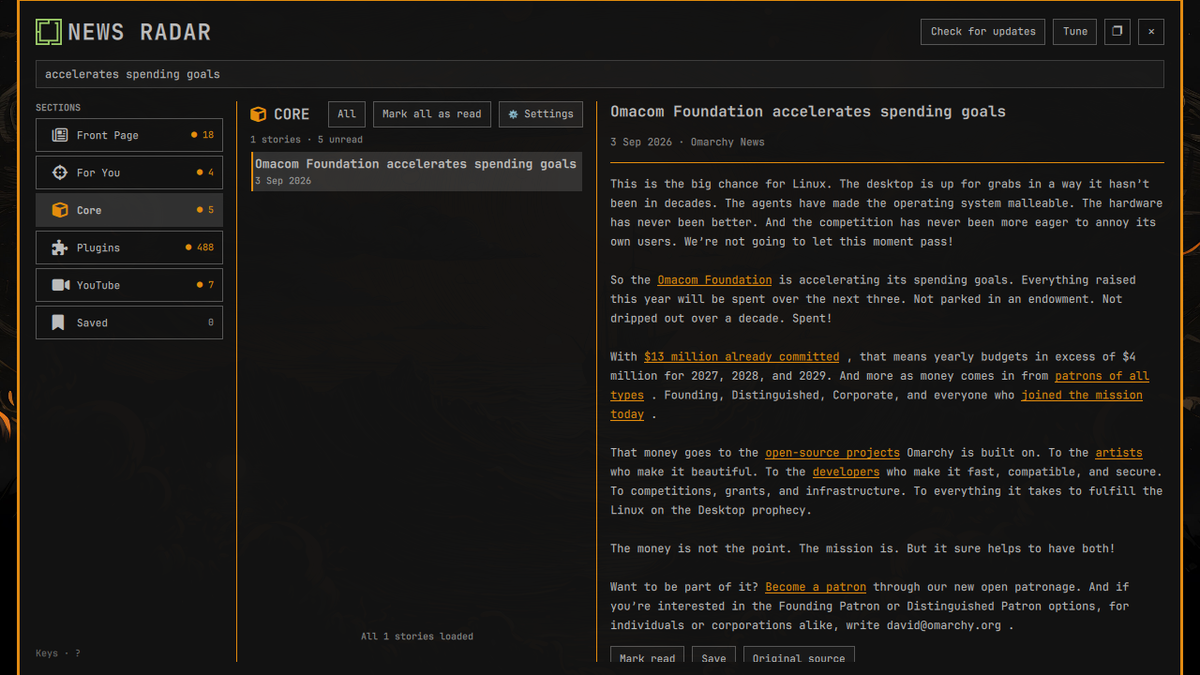
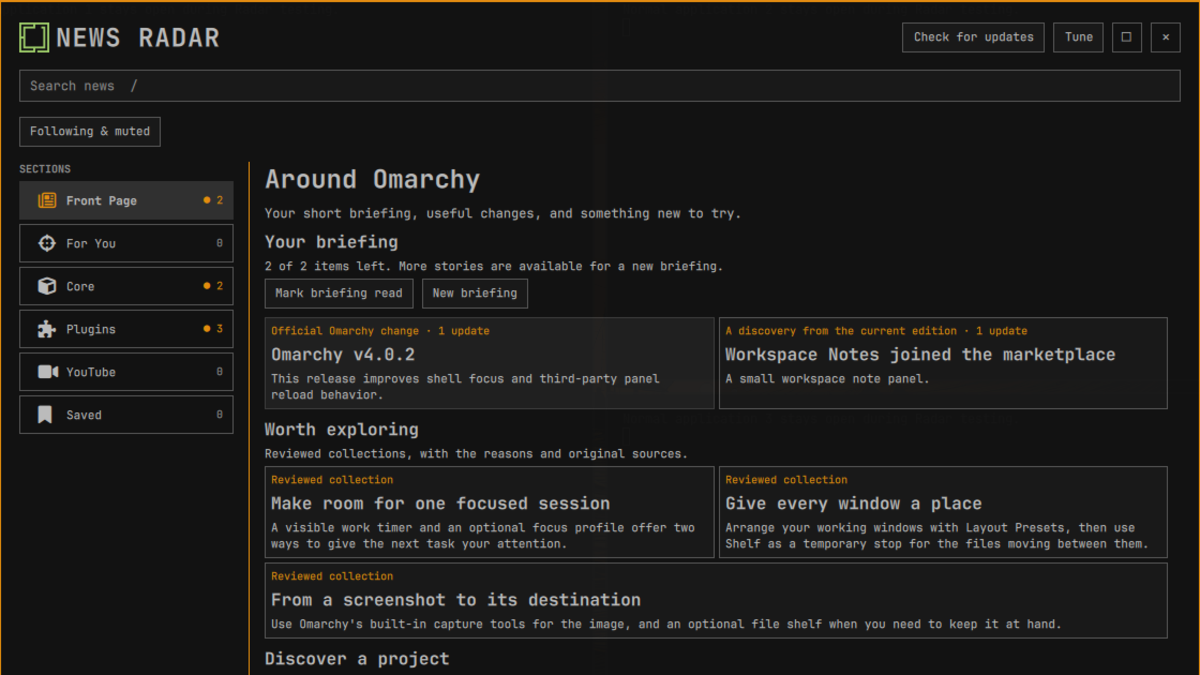
Prepare News Radar 0.5 release

Changed region(s): [[0.0, 0.0, 1.0, 1.0]]

diff --git a/README.md b/README.md
@@ -1,20 +1,20 @@
-![Omarchy News Radar — press one key and catch up with what changed](assets/readme-banner.svg)
+![Omarchy News Radar 0.5 — your personal front page for Omarchy](assets/readme-banner.svg)
 
 # Omarchy News Radar
 
-> Press one key. Catch up with what changed across Omarchy.
+> Your personal front page for Omarchy.
 
-Catch up on Omarchy releases, official news, plugin activity and videos in one keyboard-first desktop reader. Find stories about your enabled plugins in **For You**, save useful discoveries and keep reading from your cache when offline. Your reading state and plugin matching stay on your device.
+Catch up on Omarchy releases, official news, plugin activity and videos in one keyboard-first desktop reader. Start with a finite briefing, understand changes that affect your setup, explore reviewed workflows, and discover useful projects. Your reading state, enabled-plugin matching, follows, and mutes stay on your device.
 
 [Install from the marketplace](https://plugins.omarchy.org/plugin.html?id=io.github.mtolhuys.news-radar) · [Read the web edition](https://mtolhuijs.nl/news-radar/) · [Follow via RSS](https://mtolhuijs.nl/news-radar/feed.xml)
 
 Omarchy News Radar is an independent community project.
 
-![Omarchy News Radar in use — official news, plugin activity, section filters, and dark/light themes](preview.gif)
+![Omarchy News Radar 0.5 in use — Front Page, reviewed workflows, My setup, and project details](preview.gif)
 
-The walkthrough shows the released reader. This checkout also contains the local 0.5.0 candidate described under [Project status](#project-status).
+The walkthrough uses the released 0.5 reader and its real public edition.
 
-## Install the published v0.4.16
+## Install the published v0.5.0
 
 Open the [marketplace listing](https://plugins.omarchy.org/plugin.html?id=io.github.mtolhuys.news-radar) for its reviewed snapshot and installation instructions. To install the current public version directly from the repository's default branch:
 
@@ -62,7 +62,7 @@ o.bind("SUPER + SHIFT + R", "Omarchy News Radar", "omarchy-shell shell summon io
 
 ## Panel controls
 
-These controls describe the local 0.5.0 candidate. On first use, **Browse current stories** keeps the backlog unread; **Start from today** marks the displayed edition read and keeps those stories available to browse. Both preserve saved stories and local preferences. Existing readers keep their reading state and skip this welcome choice when upgrading.
+On first use, **Browse current stories** keeps the backlog unread; **Start from today** marks the displayed edition read and keeps those stories available to browse. Both preserve saved stories and local preferences. Existing readers keep their reading state and skip this welcome choice when upgrading.
 
 **Front Page** brings together your retained brief, reviewed workflows, documented changes for your setup and a few projects to discover. Opening this overview does not mark a hidden story read. Choose a briefing card to enter its reader. The brief holds up to five story groups, selected from unread source facts and your local filters. It favors critical or reviewed notable news, official Omarchy changes, enabled-plugin activity, and a discovery when available. Updates for the same plugin share a group with each original source accessible under **Show updates**. Routine verification changes do not consume a briefing slot on their own, and popularity metrics never choose the stories.
 
@@ -142,9 +142,7 @@ If the plugin is removed before its shortcut, the marked block is a harmless unr
 
 ## Project status
 
-Version `0.4.16` is the current release. The [marketplace listing](https://plugins.omarchy.org/plugin.html?id=io.github.mtolhuys.news-radar) provides the published snapshot. Marketplace verification is compatibility evidence, not a security audit.
-
-Version `0.5.0` is a local candidate, not a published release. Home combines a persistent five-group briefing, documented changes for your setup, reviewed workflow ideas and project discoveries. Local follows and mutes tune future news; the window prepares its placement before opening. The companion public edition adds shareable story and workflow pages, with bounded gzip delivery and durable URL retention in the separate feed server. See the [candidate release notes](docs/release-notes/0.5.0.md) and [release checklist](docs/RELEASE.md). Its runtime identity is 0.5.0; public installation above still installs the published version. Candidate publication and exact-candidate release evidence remain separate steps.
+Version `0.5.0` is the current release. Home combines a persistent five-group briefing, documented changes for your setup, reviewed workflow ideas and project discoveries. Local follows and mutes tune future news; the window prepares its placement before opening. The companion public edition adds shareable story and workflow pages, with bounded gzip delivery and durable URL retention in the feed server. See the [release notes](docs/release-notes/0.5.0.md), [verification evidence](docs/evidence/0.5.0-expanded-local.md), and [release contract](docs/RELEASE.md). The marketplace listing can remain on its previous reviewed snapshot while the 0.5 verification request is processed; marketplace verification is compatibility evidence, not a security audit.
 
 The main plugin declares `panel` and `bar-widget`. Its newspaper is visible by default, shows unread/source status, and is optional: right-click hides it with zero remaining bar geometry, while Tune in the panel restores it. Version 1 still has no daemon, desktop notification, telemetry, account, analytics, AI summary, or plugin-management action.
 
@@ -198,7 +196,7 @@ make local-latest
 
 The first run validates, clones, and enables the current committed checkout, installs Radar's managed Apps-menu entry, then collects a real edition from the live allowlisted Omarchy release and marketplace sources. It validates eligible marketplace images and atomically imports the edition and matching private source baseline; current images remain on the exact allowlisted marketplace/YouTube origins. Later runs fast-forward the installed clone, safely update the launcher entry, rescan the plugin, and advance that validated private baseline so an older change cannot be rediscovered as new. **Check for updates** still checks the live feed at `https://mtolhuijs.nl/news-radar/events.json`, refuses to downgrade newer local news, and automatically returns to the published stream as soon as it advances. Internal edition origin and publication diagnostics do not occupy the normal reading surface.
 
-The local import currently brings in news events and eligible image assets, but does not import the collection's `insights.json` companion. Documented setup changes and reviewed workflows use the independently cached or published companion instead. Until the companion is deployed, `make local-latest` alone does not provide the full expanded preview. Use the [isolated expanded-preview instructions](docs/TESTING.md#expanded-preview-with-public-content) to inspect those capabilities with owner-supplied public artifacts.
+The local import brings in news events and eligible image assets, but does not import the collection's `insights.json` companion. Documented setup changes and reviewed workflows use the independently cached public companion instead. Use the [isolated expanded-preview instructions](docs/TESTING.md#expanded-preview-with-public-content) when testing specific owner-supplied artifacts.
 
 “Latest” means this repository's current committed `HEAD` plus a collection performed at command time. The command never runs `git pull`, refuses uncommitted source or installed changes, preserves a deliberately disabled modern installation, leaves `Super+Alt+N` untouched, and refuses to repoint an installation from another checkout or public URL. A one-time migration recognizes only the exact unmodified panel-only preview placement, moves that owned entry through Omarchy's supported lifecycle to the default right-side newspaper, and restores the canonical bar/image defaults. Ambiguous or customized placement is refused rather than overwritten. It is intentionally not a background updater.
 
@@ -227,7 +225,7 @@ Start with [`AGENTS.md`](AGENTS.md). The binding product, architecture, data, so
 
 Omarchy News Radar is not an official Omarchy project and does not imply endorsement, marketplace verification as a security audit, or guaranteed compatibility. Every story links its original source so readers can verify the underlying claim.
 
-## What is new in the expanded 0.5.0 candidate
+## What is new in 0.5.0
 
 - A Home worth returning to: a finite briefing, source-backed setup changes, reviewed workflow ideas and project discovery.
 - My setup shows documented releases relative to locally enabled versions, with precise unknown/incomplete coverage labels.
@@ -236,4 +234,4 @@ Omarchy News Radar is not an official Omarchy project and does not imply endorse
 - Generic `insights.json`, shareable story/workflow pages and weekly editions extend the public reader while `events.json` stays schema v2 for older clients.
 - Local state migrates to schema v13; v1–v12 supported reading state, saves and preferences are preserved.
 
-The public release and existing marketplace media still describe 0.4.16. Source and runtime verification for this expanded candidate are separate from the earlier briefing-only evidence. See [candidate notes](docs/release-notes/0.5.0.md) and the [release contract](docs/RELEASE.md).
+The README walkthrough and marketplace preview are captured from the final 0.5 runtime in the disposable Omarchy Plugin Lab. See the [release notes](docs/release-notes/0.5.0.md) and [release contract](docs/RELEASE.md).

diff --git a/docs/RELEASE.md b/docs/RELEASE.md
@@ -1,14 +1,14 @@
 # Release contract
 
-Version `0.5.0` is a local candidate. The published release remains `0.4.16`; no tag, release, marketplace promotion, Forge deployment, or public candidate install is implied by this checkout. The expanded candidate adds a home overview, a persistent finite briefing, source-backed setup comparisons, reviewed discoveries, local follow/mute controls, corrected first-map placement, bounded gzip delivery and durable public pages. Feed schema remains v2; an optional insights-v1 companion carries the new public facts, and local state moves to v13 with supported v1–v12 data preserved. See [candidate release notes](release-notes/0.5.0.md).
+Version `0.5.0` is the current release. It adds a home overview, a persistent finite briefing, source-backed setup comparisons, reviewed discoveries, local follow/mute controls, corrected first-map placement, bounded gzip delivery and durable public pages. Feed schema remains v2; an optional insights-v1 companion carries the new public facts, and local state moves to v13 with supported v1–v12 data preserved. See the [release notes](release-notes/0.5.0.md).
 
-The existing README walkthrough and marketplace preview show the released reader. They are not visual evidence for the candidate's new briefing and welcome states. The maintainer-controlled marketplace snapshot and exact-commit compatibility evidence remain separate from local validation; marketplace verification is not a security audit.
+The README walkthrough and root marketplace preview use inspected captures from the final disposable runtime. The maintainer-controlled marketplace snapshot and exact-commit compatibility evidence remain separate from release publication; marketplace verification is not a security audit.
 
-## Candidate identity
+## Release identity
 
-For local validation, record the working-tree status, manifest version, panel build identity, Python helper version, feed and state schemas, generated artifact SHA-256, selected Omarchy source revision, and Plugin Lab ISO/base identity. Before publication, replace provisional evidence with one clean Git commit and the exact candidate tested. Record the tag only after owner-authorized publication.
+Record the working-tree status, manifest version, panel build identity, Python helper version, feed and state schemas, generated artifact SHA-256, selected Omarchy source revision, Plugin Lab ISO/base identity, exact public commit, and release tag.
 
-The manifest, Python package, helper build, and panel identify `0.5.0`. README installation and current-release status identify the separately published `0.4.16`. Repository validation accepts this explicit candidate status only with matching unpublished candidate notes; advancing publication requires updating all of these records together. The [earlier briefing-only evidence](evidence/0.5.0-local.md) remains historical. The [expanded candidate evidence](evidence/0.5.0-expanded-local.md) records current source/server/browser checks and the outstanding final disposable desktop acceptance.
+The manifest, Python package, helper build, panel, README installation section, changelog, and release notes identify `0.5.0`. The [earlier briefing-only evidence](evidence/0.5.0-local.md) remains historical. The [0.5 verification record](evidence/0.5.0-expanded-local.md) records the source, production server, browser, multi-window, and disposable desktop checks.
 
 ## Publishable checklist
 
@@ -77,11 +77,11 @@ These are acceptance requirements; completed checks and remaining limitations be
 - `make test`, `make validate`, `make feed-fixture`, and `make site` pass from a clean clone without unapproved downloads; `make collect-live` separately proves the allowlisted live build.
 - Plugin Lab fresh-install, dedicated briefing, and released-0.1.3 upgrade acceptance pass for the exact candidate with inspected logs and screenshots. The briefing journey covers both welcome choices, per-event versus group read scope, explicit completion, reopen/arrival stability, offline operation, keyboard focus, and maintained light/dark layouts.
 - The networked Plugin Lab preview journey renders the fixed public edition in the exact Matte Black marketing frame; the README crop matches its recorded window geometry.
-- Public clean-clone installation, shortcut setup/removal, update, and plugin removal pass for the exact remotely available candidate. The existing `public-install.sh` remains pinned to published 0.4.16 and state v11; it proves only that released journey. Advance its identity and first-use/state assertions when publication is authorized, then run it against the exact candidate SHA.
+- Public clean-clone installation, first-use Front Page, shortcut setup/removal, read state, and plugin removal pass for the exact remotely available 0.5 commit through the state-v13 journey.
 - Workflow actions are pinned and permissions are least privilege.
-- README, changelog, manifest, UI version, feed/state schemas, screenshots, release notes, and evidence distinguish the local candidate from the published release. Existing released screenshots carry an explicit label; candidate release media is refreshed from inspected candidate VM captures before promotion.
+- README, changelog, manifest, UI version, feed/state schemas, screenshots, release notes, and evidence agree on 0.5. Release media comes from inspected final-runtime VM captures.
 - Repository contains no secrets, private state, real bindings, caches, VM disks, lab output, generated deployment tree, or machine-local paths.
-- No push, tag, release, marketplace submission, domain change, or external announcement occurs without owner authorization. GitHub Pages is not the live publication path.
+- Push, tag, release, marketplace submission, domain change, and external announcement require owner authorization. GitHub Pages is not the live publication path.
 
 ## Removal contract
 
@@ -141,8 +141,8 @@ Deliberate limitations / unverified boundaries:
 -
 ```
 
-## Expanded-candidate release gate
+## 0.5 release gate
 
-The earlier `evidence/0.5.0-local.md` records the briefing-only candidate, not the expanded D058–D060 implementation. Require fresh exact-commit source and disposable runtime evidence before treating this branch as accepted. Home and setup must not read hidden stories; discovery navigation, exact version notes, follow/mute/clear, upgrade preservation, offline companion fallback, keyboard reachability and first-map geometry need matching proof.
+The earlier `evidence/0.5.0-local.md` records the briefing-only candidate. The expanded evidence record must establish exact-commit source and disposable runtime acceptance. Home and setup must not read hidden stories; discovery navigation, exact version notes, follow/mute/clear, upgrade preservation, offline companion fallback, keyboard reachability and first-map geometry need matching proof.
 
-The Laravel application changes are a separate deployment unit. Validate real producer artifacts through its strict staging policy, verify retained links across changing editions and exercise interruption recovery before deployment. Confirm gzip, Vary, ETag, HEAD, 304, content type, cache policy and encoded-byte accounting on application responses. A tested local source change does not establish production nginx/Forge behavior. Deploy the server companion/public-file support before relying on the plugin's new public pages; old clients continue using unchanged events.json. Obtain explicit publication authorization only after this candidate is reviewable.
+The Laravel application is a separate deployment unit. Validate real producer artifacts through its strict staging policy, verify retained links across changing editions and exercise interruption recovery before deployment. Confirm gzip, Vary, ETag, HEAD, 304, content type, cache policy and encoded-byte accounting on production application responses. Old clients continue using unchanged events.json.

diff --git a/docs/evidence/0.5.0-expanded-local.md b/docs/evidence/0.5.0-expanded-local.md
@@ -1,6 +1,6 @@
 # Expanded 0.5.0 local verification
 
-This record concerns the expanded D058–D061 candidate, not the earlier briefing-only implementation. Public Radar remains 0.4.16. No public push, tag, marketplace promotion or Forge deployment is established by this evidence.
+This record concerns the expanded D058–D061 implementation released as 0.5.0, not the earlier briefing-only implementation. Runtime acceptance is anchored to the final code commit below; the distribution commit adds only release documentation, inspected media, and the public-install journey used before tagging.
 
 ## Source and server
 
@@ -10,7 +10,11 @@ The homepage feature branch contains the tested server changes in commits `5cdf7
 
 Server tests execute the actual Python publisher and serve every generated artifact. A second generation removes a story and workflow and advances the week; previously shared URLs remain available. Recovery covers interruption around promotion, a partly deleted committed backup, and unsafe recovery material. Directory aliases redirect to trailing-slash URLs so browsers resolve nested styles and navigation correctly. HTTP coverage includes encoding quality values, identity/gzip validators, conditional precedence, HEAD/304, private representation-cache bounds and encoded response-byte accounting.
 
-The measured real feed was 1,083,465 identity bytes and 112,543 gzip bytes. One hundred bodyless conditional gzip responses used approximately 1.4147 seconds of CPU before representation caching and 0.1322 seconds after. This measures the isolated response layer, not production requests per second or total Forge capacity. Proxy behavior still needs verification when deployment is authorized.
+The measured real feed was 1,083,465 identity bytes and 112,543 gzip bytes. One hundred bodyless conditional gzip responses used approximately 1.4147 seconds of CPU before representation caching and 0.1322 seconds after. This measures the isolated response layer, not production requests per second or total Forge capacity.
+
+The homepage server changes were deployed at `cb59cca29176650b535e5236a8b3e4a92795fc5b`; Forge's producer checkout was fast-forwarded to Radar documentation commit `3a5d76bdf9a0fa275e530aa1ec703be4c42b7f9d` while preserving its scheduled source snapshot. A production dry run and manual publication passed, followed by a successful scheduled five-minute publication at `2026-09-06T09:55:10Z`. The live build reported source revision `3a5d76bdf9a0fa275e530aa1ec703be4c42b7f9d`, feed schema 2 with 500 events, and insights schema 1 with 100 projects and three reviewed collections.
+
+Production nginx/Laravel returned identity and gzip representations with distinct strong ETags, `Vary: Accept-Encoding`, the expected cache and noindex policy, and no cookies. A matching identity ETag returned a bodyless 304; gzip HEAD returned no body. The home, one real story, one reviewed workflow and the current weekly edition returned 200, while the non-trailing-slash story route returned the canonical bodyless 308. The scheduled successor changed the artifact digest without replaying continuity as fresh news.
 
 ## Public browser review
 
@@ -48,8 +52,8 @@ Opening trace `20260906-000357` established that the selected development core r
 
 Radar also retains acknowledged opening-rule specifications for reuse and allows superseded token-guarded timers to expire harmlessly. Actual Lua regressions cover stale cleanup/expiry, repeated opens, rejected-declaration retries and late confirmation. Native maximize now uses the supported dispatcher and actual compositor state, rather than Qt's decoration-related maximized hint; the final VM runs prove the real mode and restored geometry. Inline body links remain pointer-operated, with a separate keyboard-accessible original-source action. No screen-reader certification is claimed.
 
-## Authorized daily candidate
+## Daily installation
 
 The initial expanded candidate was installed into the owner's existing daily checkout after its broad journeys passed. The guarded installer created a private backup, quiesced only Radar, migrated state v12 to v13, and confirmed preservation of all 478 existing read decisions, the saved-story set, public Git origin and shell/bar configuration. After D061 passed its exact final layout journey and all 310 tests, that clean daily `main` checkout was fast-forwarded from `d951187` to `198304c` without changing its public GitHub origin or private state. The installed checkout remained clean. No private state, backup contents or machine-local backup paths are committed here.
 
[2 lines of base64/hex data omitted]

diff --git a/docs/release-notes/0.5.0.md b/docs/release-notes/0.5.0.md
@@ -1,8 +1,6 @@
 # Omarchy News Radar 0.5.0
 
-Status: local candidate; not published.
-
-The published release remains 0.4.16. This expanded candidate makes Radar useful both for catching up and for deciding what to explore next. This candidate passed local source and disposable desktop verification and is installed for owner testing. It is not a marketplace update or a deployed web edition.
+Version 0.5 makes Radar useful both for catching up and for deciding what to explore next. It passed source, server, browser, multi-window, exact public-clone, and disposable desktop verification. The marketplace can continue serving its previous reviewed snapshot while the 0.5 verification request is processed.
 
 ## A home worth opening
 
@@ -40,7 +38,7 @@ Changing text size or monitor layout while Radar is open also refits the floatin
 
 The public reader gains individual story pages, workflow pages and weekly editions with original source links and escaped sharing metadata. The Laravel publication integration retains older shared pages within explicit storage bounds. It stages successor continuity before promotion and recovers interrupted publication.
 
-HTTP serving negotiates gzip or identity, uses representation-specific ETags and Vary, handles HEAD/304 without a body, refreshes mutable CSS and counts the actual encoded response bytes. The plugin preserves separate encoded and decoded input bounds. These are local server source changes; production Forge/nginx behavior requires deployment verification.
+HTTP serving negotiates gzip or identity, uses representation-specific ETags and Vary, handles HEAD/304 without a body, refreshes mutable CSS and counts the actual encoded response bytes. The plugin preserves separate encoded and decoded input bounds. These behaviors were verified through production Forge/nginx after deployment.
 
 ## Safer upgrades and a maintainable codebase
 
@@ -50,6 +48,4 @@ Feed schema remains v2 for older clients. The richer public data uses an indepen
 
 ## Release evidence
 
-The earlier [briefing-only evidence](../evidence/0.5.0-local.md) remains historical and does not establish acceptance of this expanded candidate. The [expanded local verification](../evidence/0.5.0-expanded-local.md) records the final source, server, browser, multi-window and desktop checks for D058–D061, along with the installed runtime revision and remaining publication steps. The published marketplace preview and walkthrough still show 0.4.16.
-
-This branch has not been pushed, tagged, released, promoted in the marketplace or deployed by the local changes. See the [release contract](../RELEASE.md) for the remaining publication gates.
+The earlier [briefing-only evidence](../evidence/0.5.0-local.md) remains historical. The [0.5 verification record](../evidence/0.5.0-expanded-local.md) records the final source, server, browser, multi-window and disposable desktop checks for D058–D061. See the [release contract](../RELEASE.md) for the publication and marketplace handoff procedure.

diff --git a/docs/TESTING.md b/docs/TESTING.md
@@ -159,9 +159,9 @@ The same focused scenario captures dark, light, and narrow layouts, then resets 
 
 `activation-upgrade.sh` separately constructs an exact local Git history from released 0.1.3 and the current candidate. It must install the 0.1.3 managed shortcut, reproduce the released background-window close through both real QMP routes, fast-forward through Omarchy's official plugin updater, and—without opening Radar or clicking any migration control—prove that the updater's normal rescan backs up and replaces only the exact retained legacy block. The resulting live shortcut and current newspaper must each raise one obscured Radar window while foreground repeats keep it open. It must also prove empty Hyprland configuration errors and exact shortcut removal. The panel's visible migration control remains separately source/unit tested as the rollback-safe retry path.
 
-`public-install.sh` remains pinned to the published 0.4.16/state-v11 journey: it proves the public GitHub URL clones that expected commit, validates and enables the panel, loads the fixed Forge edition, exposes durable per-story read state, supports documented launcher and shortcut setup/removal, and removes through plugin ID `io.github.mtolhuys.news-radar`. Advance its identity and first-use assertions only as part of the authorized candidate publication procedure; a passing released-version run cannot accept the expanded candidate.
+`public-install.sh` covers the published 0.5.0/state-v13 journey: it proves the public GitHub URL clones the supplied exact commit, validates and enables the panel, loads the fixed Forge edition, exercises the first-use choice and Front Page without hidden reads, exposes durable per-story read state, supports documented launcher and shortcut setup/removal, and removes through plugin ID `io.github.mtolhuys.news-radar`.
 
-`release-preview.sh` is a separate networked release-only journey. It installs the local candidate only in the disposable guest, refreshes the fixed public Forge edition, requires a validated direct allowlisted marketplace/YouTube image, applies Omarchy's Matte Black theme, records exact `1240×740` window geometry below the desktop bar, captures the frame, and removes the candidate. Crop the retained `1280×800` console image by the recorded `[20,40]` origin; deterministic acceptance remains independent of this marketing proof.
+`release-preview.sh` is a separate networked release-only journey. It installs the release checkout only in the disposable guest, refreshes the fixed public Forge edition, requires a validated direct allowlisted marketplace/YouTube image, applies Omarchy's Matte Black theme, records exact `1240×740` window geometry below the desktop bar, captures the frame, and removes the plugin. Crop the retained `1280×800` console image by the recorded `[20,40]` origin; deterministic acceptance remains independent of this marketing proof.
 
 ## Expanded preview with public content
 

diff --git a/CHANGELOG.md b/CHANGELOG.md
@@ -2,6 +2,22 @@
 
 ## Unreleased
 
+## 0.5.0 — 2026-09-06
+
+### Added
+- A persistent, finite Front Page briefing; setup-aware release context; reviewed workflows and project discovery; local project/source/creator follows and mutes; and explicit first-use backlog choices.
+- Shareable story, workflow, and weekly-edition pages backed by the optional insights-v1 companion while the existing events feed remains schema v2.
+
+### Changed
+- Compose Home as balanced newspaper rows with horizontal card navigation, centered detail reading measures, restrained images, and useful full-area empty states.
+- Prepare bounded floating-window geometry before the first visible frame, preserve placement independently from reading state, and retain normal move, resize, maximize, and Alt+Tab behavior.
+- Split feed, reading, migration, publication, lifecycle, session, navigation, and presentation responsibilities into smaller named modules.
+
+### Fixed
+- Remove inactive inspector buttons and dividers when no story exists, keep compact article actions reachable with large text, and refit overflowing windows after text or monitor changes.
+- Preserve rich release notes across optional-source failures, reject misleading code-example extraction and historical repository attribution, and keep detail routes reachable through filters and mutes.
+- Serve production feeds with bounded gzip negotiation, representation-specific strong ETags, bodyless HEAD/304 responses, durable shared URLs, and interruption-safe publication continuity.
+
 ## 0.4.16 — 2026-09-05
 
 ### Fixed
